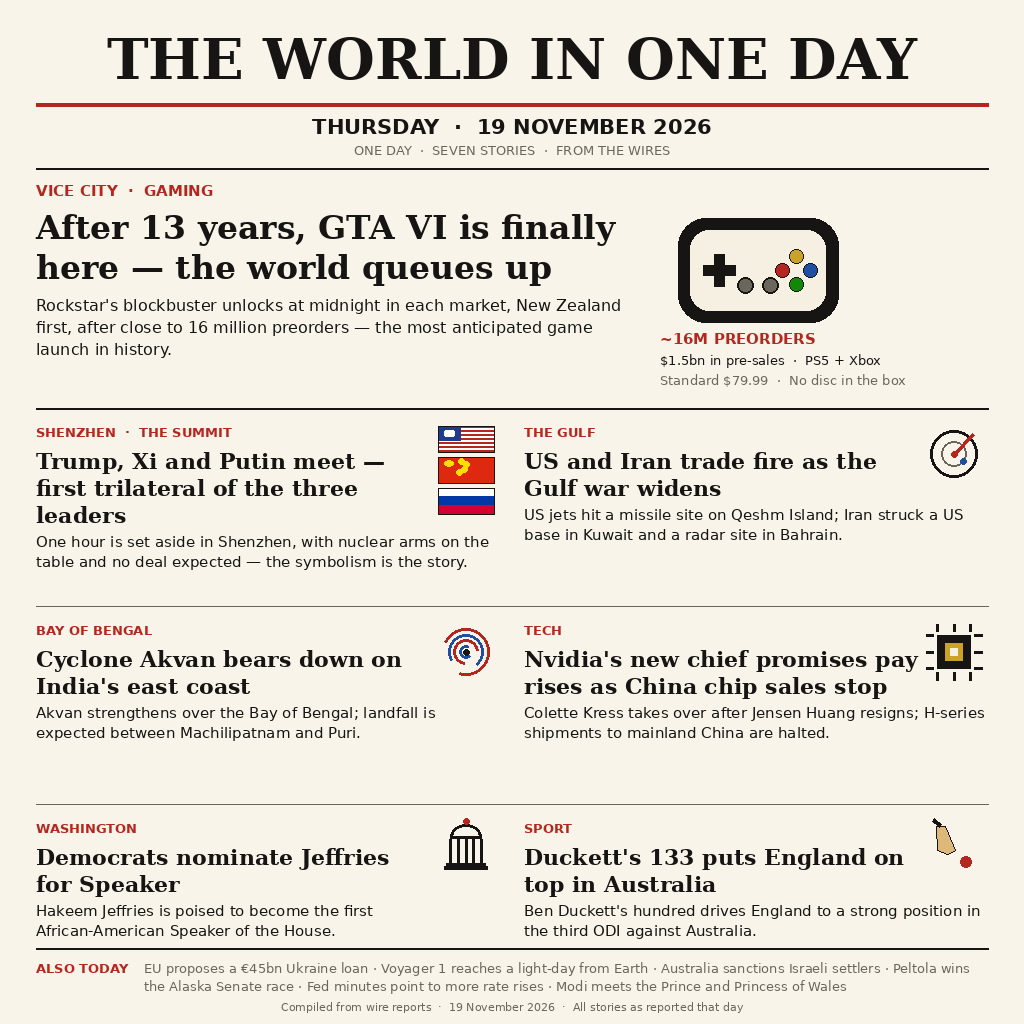
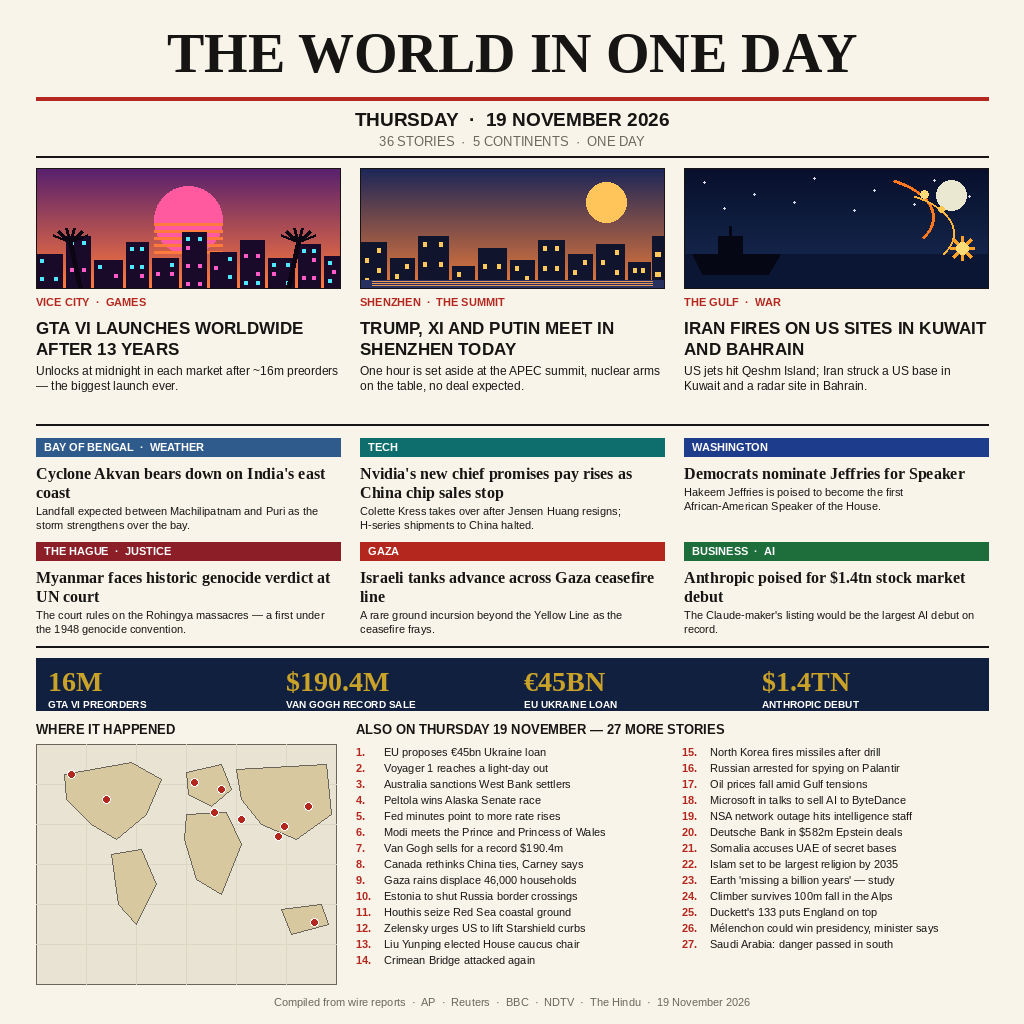
v2: 36-story front page to beat live #1 — 3 illustrated heroes, 6 medium stories, stats strip, map + 27-item list

diff --git a/README.md b/README.md
@@ -7,14 +7,16 @@ single image, entered in make.fun's `news-image-20261119` bounty
 ## What the image shows
 
 Masthead **"THE WORLD IN ONE DAY"**, dated **Thursday 19 November
-2026**, with seven stories drawn from that day's wire reports:
+2026**, with 36 stories drawn from that day's wire reports — three
+illustrated hero panels, six medium stories, a stats strip, a world
+map and a 27-item numbered list:
 
-1. **Lead — Vice City / Gaming:** After 13 years, GTA VI is finally
-   here — rolling midnight launch, New Zealand first, close to 16
+1. **Lead — Vice City / Gaming:** GTA VI launches worldwide after 13
+   years — rolling midnight launch, New Zealand first, close to 16
    million preorders and $1.5bn in pre-sales.
 2. **Shenzhen / The Summit:** Trump, Xi and Putin meet — the first
    trilateral of the three leaders, one hour, nuclear arms on the
-   table, no deal expected (with the three flags: USA, China, Russia).
+   table, no deal expected.
 3. **The Gulf:** US and Iran trade fire as the Gulf war widens — US
    jets hit a missile site on Qeshm Island; Iran struck a US base in
    Kuwait and a radar site in Bahrain.
@@ -25,8 +27,19 @@ Masthead **"THE WORLD IN ONE DAY"**, dated **Thursday 19 November
    H-series shipments to China halted.
 6. **Washington:** Democrats nominate Hakeem Jeffries for Speaker —
    poised to become the first African-American Speaker of the House.
-7. **Sport:** Ben Duckett's 133 puts England on top in Australia in
-   the third ODI.
+7. **The Hague / Justice:** Myanmar faces a historic genocide verdict
+   at the UN court over the Rohingya massacres.
+8. **Gaza:** Israeli tanks advance across the Gaza ceasefire line in a
+   rare ground incursion.
+9. **Business / AI:** Anthropic poised for a $1.4tn stock market
+   debut — the largest AI listing on record.
+
+Stats strip: 16M GTA VI preorders · $190.4M Van Gogh record sale ·
+€45BN EU Ukraine loan · $1.4TN Anthropic debut. Plus 27 more stories
+in the numbered list, from the EU's Ukraine loan and Voyager 1's
+light-day to the Van Gogh record and a climber surviving a 100m fall
+in the Alps. Every story verified against 19 November 2026 wire
+reports (AP, Reuters, BBC, NDTV, The Hindu).
 
 The footer adds: the EU's €45bn Ukraine loan proposal, Voyager 1
 reaching a light-day from Earth, Australia sanctioning Israeli
